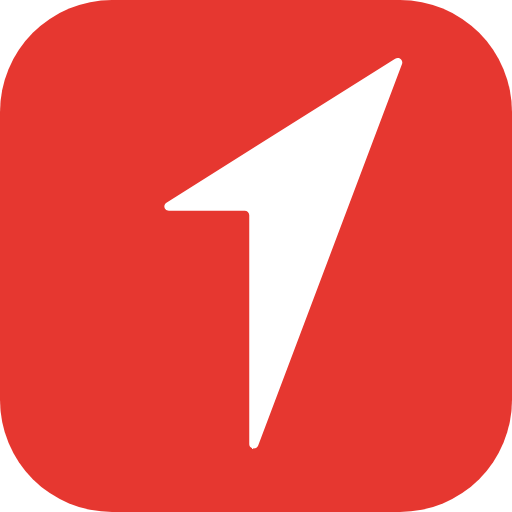
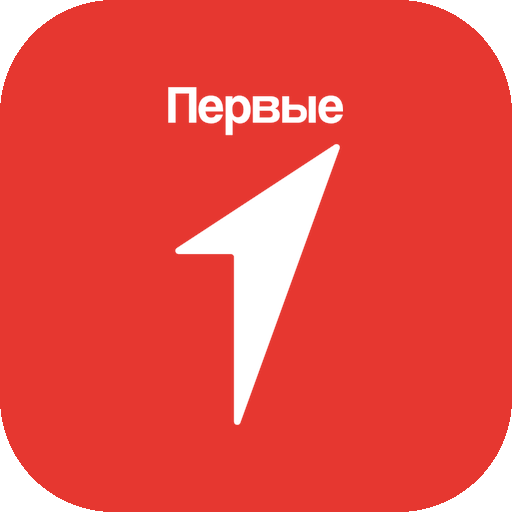
Новое имя «Советы Первых 19» и официальный логотип Движения Первых

Changed region(s): [[0.3125, 0.0938, 0.7812, 0.875]]

diff --git a/public/style.css b/public/style.css
@@ -5,7 +5,7 @@
 @media(max-width:700px){.sidebar{position:relative;width:100%;padding:16px 16px 8px;border-right:0;border-bottom:1px solid #e3e7ec}.brand{margin:0 0 17px;font-size:18px;gap:9px;line-height:1.1}.brand>span:last-child br{display:none}.brand-mark{width:32px;height:34px;font-size:25px;border-radius:9px}.brand-region{display:inline;font-size:8px;margin-left:10px}.nav-label,.sidebar-bottom,.nav-divider{display:none}.sidebar nav{display:flex;gap:4px;overflow:auto}.nav-item{width:auto;white-space:nowrap;flex-shrink:0;font-size:10px;padding:8px 10px;margin:0;gap:6px}.nav-item small{display:none}.nav-item .icon{width:14px;height:14px}.workspace{margin:0}.topbar{height:61px;padding:0 19px;font-size:10px}.topbar .button{padding:8px 12px;font-size:10px}main{padding:26px 19px 32px}h1{font-size:25px}.page-heading p{font-size:11px;line-height:1.7}.page-heading{align-items:flex-start;flex-direction:column}.hero h2{font-size:27px}.hero-copy{padding:25px 24px}.hero p{font-size:11px}.hero-art{right:-75px;width:60%}.cards{grid-template-columns:1fr}.record-card{padding:20px 21px 0}.card-bottom{margin:0 -21px;padding:13px 19px}.record-card h3{font-size:17px}.card-description{font-size:12px;min-height:0}.card-council{font-size:10px}.kind{font-size:10px}.priority{font-size:8px}.badge,.deadline{font-size:9px}.filters{gap:8px}.filters select{flex:1;max-width:100%;min-width:0;font-size:9px}.search{flex-basis:100%;min-width:100%}.section-title p{font-size:10px;max-width:260px}.section-title h2{font-size:17px}.stats{margin-bottom:26px}.stat strong{font-size:26px}.stat>span:last-of-type{font-size:10px}.rows .record-card{grid-template-columns:1fr;gap:10px}.rows .card-bottom{justify-content:flex-start}.rows .card-top{display:none}.rows .record-card h3{font-size:14px}.council-grid,.help-grid{grid-template-columns:1fr}.calendar-grid{min-width:500px}.panel:has(.calendar-grid){overflow:auto}.calendar-day{min-height:95px}.calendar-event{font-size:9px}.calendar-day strong{font-size:10px}.panel{padding:20px}.form-row{grid-template-columns:1fr;gap:0}dialog{padding:28px 22px;max-height:92vh}dialog h2{font-size:23px}.detail-title{font-size:25px}.detail-meta{flex-direction:column;gap:8px}.event time{display:block;margin:2px 0}.help-card{padding:22px}.help-card h2{margin-top:9px}.help-card p{font-size:13px}.invite-code{font-size:17px;letter-spacing:1px}footer{font-size:9px;padding:18px 19px;flex-wrap:wrap;gap:7px}footer>span{display:none}footer small{font-size:8px}#toast{width:calc(100% - 32px);text-align:center}}
 @media(prefers-reduced-motion:reduce){*{transition:none!important;scroll-behavior:auto!important}}
 
-.brand-mark{padding:0;flex-shrink:0}.brand-mark img{display:block;width:25px;height:39px}.profile small{max-width:150px;overflow-wrap:anywhere}
+.brand-mark{padding:0;flex-shrink:0}.brand-mark img{display:block;height:39px;width:auto}.profile small{max-width:150px;overflow-wrap:anywhere}
 .cf-actions{display:flex;gap:8px;flex-wrap:wrap}.cf-filters{display:flex;gap:16px;flex-wrap:wrap;margin:0 0 24px}.cf-filters label{min-width:170px;max-width:400px}.cf-section{margin-bottom:24px}.cf-table-wrap{overflow-x:auto;width:100%;margin:16px 0}.cf-table{width:100%;border-collapse:collapse;text-align:left}.cf-table th,.cf-table td{padding:12px;border-bottom:1px solid #e8eaee;vertical-align:top}.cf-table th{font-size:12px;color:#737984;background:#f8f9fb}.cf-table td{font-size:13px}.cf-months{min-width:620px}.cf-months input{width:100%;min-width:88px;padding:8px}.cf-months th{max-width:160px}.cf-totals{display:grid;grid-template-columns:repeat(4,1fr);gap:20px}.cf-totals strong{display:block;font-size:28px}.cf-totals span{font-size:12px;color:#737984}.cf-request{display:flex;justify-content:space-between;gap:16px;flex-wrap:wrap;padding:18px 0;border-bottom:1px solid #e8eaee}.cf-request span,.cf-request small{display:block;color:#737984;margin-top:5px}.cf-request small{max-width:800px}dialog:has(#cf-report-form){max-width:960px;width:calc(100% - 32px)}.sidebar{overflow-y:auto}.sidebar nav{flex-shrink:0}@media(max-width:800px){.cf-totals{grid-template-columns:repeat(2,1fr)}.cf-filters{display:block}.cf-filters label{max-width:none}.cf-table td,.cf-table th{padding:8px}.page-heading{flex-wrap:wrap}}
 .cf-role-picker{border:1px solid #e3e6eb;border-radius:10px;padding:14px 16px;margin:18px 0;min-width:0}.cf-role-picker legend{font-weight:650;padding:0 5px}.cf-role-picker label,.cf-check{display:flex;align-items:flex-start;gap:10px;font-size:13px;line-height:1.5;margin:12px 0}.cf-role-picker input[type=checkbox],.cf-check input[type=checkbox]{width:18px;height:18px;padding:0;margin:1px 0 0;flex-shrink:0;accent-color:#e63730}.cf-activity{border:1px solid #e2e6ec;border-radius:12px;background:#fafbfc;padding:20px;margin:22px 0;min-width:0}.cf-activity legend{font-size:14px;font-weight:700;padding:0 8px}.cf-event-grid{display:grid;grid-template-columns:1fr 1fr;gap:16px}.cf-event-toolbar{justify-content:space-between;align-items:center;margin-bottom:16px}.cf-activity input,.cf-activity select,.cf-activity textarea{background:white}.cf-legacy{border:1px solid #e6cf92;background:#fffbef;border-radius:10px;padding:16px;margin-bottom:24px}.cf-subheading{margin-top:28px}.cf-role-picker label{font-weight:400}.cf-months td{font-variant-numeric:tabular-nums}@media(max-width:700px){.cf-event-grid{grid-template-columns:1fr;gap:0}.cf-activity{padding:14px}}
 .pf-people-grid,.pf-council-grid{display:grid;grid-template-columns:repeat(auto-fill,minmax(225px,1fr));gap:18px}.pf-person-card,.pf-council-card{border:1px solid #e5e8ed;border-radius:12px;background:#fff;padding:22px;text-align:left;color:#24282e;overflow-wrap:anywhere}.pf-person-card:hover,.pf-council-card:hover{border-color:#e63730;box-shadow:0 4px 18px #292b3710}.pf-person-card strong,.pf-council-card strong{display:block;font-size:15px;margin:10px 0 7px}.pf-person-card span,.pf-council-card span{display:block;color:#777e89;font-size:12px}.pf-photo{width:90px;height:105px;object-fit:cover;border-radius:12px;flex-shrink:0;background:#f2eae4}.pf-initials{display:grid;place-items:center;font-size:35px;font-weight:700;color:#9b6d50}.pf-profile-head{display:flex;gap:22px;align-items:flex-start;margin-bottom:22px}.pf-profile-head h2{margin-bottom:8px}.pf-info{display:grid;grid-template-columns:140px 1fr;gap:8px 16px;margin:24px 0}.pf-info dt{color:#8b919b}.pf-info dd{margin:0;overflow-wrap:anywhere}.pf-info a{color:#d93630;text-decoration:underline}.pf-bio{white-space:pre-wrap;overflow-wrap:anywhere}.pf-metrics{margin:20px 0;grid-template-columns:repeat(3,1fr)}.pf-record{display:flex;flex-direction:column;gap:5px;border-bottom:1px solid #e7e9ee;padding:12px 0}.pf-record span{font-size:12px;color:#868d97}.pf-chart{margin:25px 0;padding:18px;background:#f7f9fb;border-radius:12px;overflow:auto}.pf-chart figcaption{font-size:15px;font-weight:700;margin-bottom:14px}.pf-chart svg{width:100%;min-width:520px;display:block}.pf-chart text{fill:#68717f}.pf-series-0{fill:#e63730}.pf-series-1{fill:#4777b4}.pf-series-2{fill:#399b7b}.pf-chart-key{display:flex;gap:15px;font-size:11px;flex-wrap:wrap}.pf-attendance-row{display:grid;grid-template-columns:1fr 170px;gap:15px;align-items:center;padding:8px 0;border-bottom:1px solid #eceef2}.pf-attendance-row small{display:block;color:#9096a0;font-weight:400}.record-card.task{border-top:3px solid #4777b4}.cf-totals{grid-template-columns:repeat(auto-fit,minmax(160px,1fr))}dialog:has(.pf-profile-head),dialog:has(#pf-meeting-form){max-width:960px;width:calc(100% - 32px)}.cf-months{min-width:830px}@media(max-width:700px){.pf-metrics{grid-template-columns:repeat(2,1fr)}.pf-info{grid-template-columns:1fr;gap:3px}.pf-info dd{margin-bottom:10px}.pf-profile-head{gap:14px}.pf-attendance-row{grid-template-columns:1fr}.pf-photo{width:70px;height:85px}.pf-profile-head h2{font-size:22px}.cf-totals{grid-template-columns:repeat(2,1fr)}}

diff --git a/public/app.js b/public/app.js
@@ -37,7 +37,7 @@ async function load(){if(state.demo){state.items=demoItems;state.councils=[...ne
 function nav(id,text,ico,count){return `<button class="nav-item ${state.page===id?'active':''}" data-page="${id}">${icon(ico)}<span>${text}</span>${count!==undefined?`<small>${count}</small>`:''}</button>`;}
 function render(){
  const items=state.items.filter(i=>i.status!=='archive');const counts=k=>items.filter(i=>i.kind===k).length;
- $('#app').innerHTML=`<aside class="sidebar"><a class="brand" href="/" aria-label="Живые Советы, главная"><span class="brand-mark"><img src="/first-mark.svg" alt="Движение Первых"></span><span>Живые<br>Советы<span class="brand-region">ХАКАСИЯ</span></span></a><div class="nav-label">РАБОЧЕЕ ПРОСТРАНСТВО</div><nav>${nav('overview','Обзор','grid')}${nav('task','План работы','check',counts('task'))}${nav('initiative','Инициативы','bulb',counts('initiative'))}${nav('project','Проекты','flag',counts('project'))}${nav('problem','Проблемы','alert',counts('problem'))}<div class="nav-divider"></div>${nav('calendar','Сроки и календарь','calendar')}${nav('councils','Советы Хакасии','users')}${nav('roster','Составы Советов','users')}${nav('reports','Отчётность','list')}${nav('meetings','Заседания и ВКС','calendar')}${nav('performance','Эффективность участников','users')}${nav('efficiency','Общая эффективность','grid')}${nav('materials','Методические материалы','list')}${nav('permissions','Права доступа','help')}${canManage()||can('invite_members')?nav('team','Участники и доступ','users'):''}</nav><div class="sidebar-bottom">${typeof pwaSidebar==='function'?pwaSidebar():''}<div class="sidebar-note"><span class="tiny-dot"></span>От идеи — к общему делу<p>Пространство для тех,<br>кто создаёт перемены.</p></div>${nav('help','Как это работает','help')}<div class="profile"><div class="avatar">${state.user?esc(state.user.name.slice(0,1)):'С'}</div><div><strong>${esc(state.user?.name||'Знакомимся с площадкой')}</strong><small>${displayRoles(state.user)||'Ознакомительный режим'}</small></div>${state.user?`<button class="icon-button" data-action="logout" aria-label="Выйти">${icon('logout')}</button>`:''}</div></div></aside><div class="workspace"><header class="topbar"><span><span class="region-dot"></span>Республика Хакасия <span class="slash">/</span> <span class="topbar-muted">Советы Первых</span></span><div class="topbar-right">${typeof pwaTopbar==='function'?pwaTopbar():''}${state.demo?'<span class="preview-label">Примеры данных</span>':`<span class="connection"><i></i>${state.hosted?'Общее пространство':'Локальное пространство'}</span>`}${state.user?`<button class="icon-button" data-action="logout" aria-label="Выйти из аккаунта" title="Выйти из аккаунта">${icon('logout')}</button>`:''}${btn(state.user?'Новая запись':'Войти',state.user?'create':'auth',state.user?'primary':'','plus')}${!state.user&&!state.setupRequired?btn('Регистрация','auth-register','primary'):''}</div></header><main id="main">${typeof claimBanner==='function'?claimBanner():''}${pageContent()}</main><footer>Живые Советы <span>Идеи становятся делами, когда мы вместе.</span><small>Хакасия · ${state.demo?'Ознакомительная версия':'Общая работа Советов'} · © 2026 Роман Мухменов. Все права защищены.</small></footer></div>`;
+ $('#app').innerHTML=`<aside class="sidebar"><a class="brand" href="/" aria-label="Советы Первых 19, главная"><span class="brand-mark"><img src="/first-logo-white.png" alt="Движение Первых"></span><span>Советы<br>Первых<span class="brand-region">19 · ХАКАСИЯ</span></span></a><div class="nav-label">РАБОЧЕЕ ПРОСТРАНСТВО</div><nav>${nav('overview','Обзор','grid')}${nav('task','План работы','check',counts('task'))}${nav('initiative','Инициативы','bulb',counts('initiative'))}${nav('project','Проекты','flag',counts('project'))}${nav('problem','Проблемы','alert',counts('problem'))}<div class="nav-divider"></div>${nav('calendar','Сроки и календарь','calendar')}${nav('councils','Советы Хакасии','users')}${nav('roster','Составы Советов','users')}${nav('reports','Отчётность','list')}${nav('meetings','Заседания и ВКС','calendar')}${nav('performance','Эффективность участников','users')}${nav('efficiency','Общая эффективность','grid')}${nav('materials','Методические материалы','list')}${nav('permissions','Права доступа','help')}${canManage()||can('invite_members')?nav('team','Участники и доступ','users'):''}</nav><div class="sidebar-bottom">${typeof pwaSidebar==='function'?pwaSidebar():''}<div class="sidebar-note"><span class="tiny-dot"></span>От идеи — к общему делу<p>Пространство для тех,<br>кто создаёт перемены.</p></div>${nav('help','Как это работает','help')}<div class="profile"><div class="avatar">${state.user?esc(state.user.name.slice(0,1)):'С'}</div><div><strong>${esc(state.user?.name||'Знакомимся с площадкой')}</strong><small>${displayRoles(state.user)||'Ознакомительный режим'}</small></div>${state.user?`<button class="icon-button" data-action="logout" aria-label="Выйти">${icon('logout')}</button>`:''}</div></div></aside><div class="workspace"><header class="topbar"><span><span class="region-dot"></span>Республика Хакасия <span class="slash">/</span> <span class="topbar-muted">Советы Первых 19</span></span><div class="topbar-right">${typeof pwaTopbar==='function'?pwaTopbar():''}${state.demo?'<span class="preview-label">Примеры данных</span>':`<span class="connection"><i></i>${state.hosted?'Общее пространство':'Локальное пространство'}</span>`}${state.user?`<button class="icon-button" data-action="logout" aria-label="Выйти из аккаунта" title="Выйти из аккаунта">${icon('logout')}</button>`:''}${btn(state.user?'Новая запись':'Войти',state.user?'create':'auth',state.user?'primary':'','plus')}${!state.user&&!state.setupRequired?btn('Регистрация','auth-register','primary'):''}</div></header><main id="main">${typeof claimBanner==='function'?claimBanner():''}${pageContent()}</main><footer>Советы Первых 19 <span>Идеи становятся делами, когда мы вместе.</span><small>Хакасия · ${state.demo?'Ознакомительная версия':'Общая работа Советов'} · © 2026 Роман Мухменов. Все права защищены.</small></footer></div>`;
  if(state.page==='team')loadMembers();
  if(state.page==='councils'&&!state.demo)refreshCouncilIndex();
  if(['roster','reports'].includes(state.page))loadCouncilFeatures();

diff --git a/public/index.html b/public/index.html
@@ -1,1 +1,1 @@
-<!doctype html><html lang="ru"><head><meta charset="utf-8"><meta name="viewport" content="width=device-width,initial-scale=1"><title>Живые Советы · Хакасия</title><meta name="description" content="Общее пространство Советов Первых Хакасии: от идеи к совместному делу."><link rel="icon" href="/favicon.svg"><link rel="manifest" href="/manifest.webmanifest"><meta name="theme-color" content="#e63730"><link rel="apple-touch-icon" href="/apple-touch-icon.png"><meta name="apple-mobile-web-app-capable" content="yes"><meta name="mobile-web-app-capable" content="yes"><meta name="apple-mobile-web-app-title" content="Живые Советы"><meta name="apple-mobile-web-app-status-bar-style" content="default"><link rel="stylesheet" href="/style.css"><script src="/app.js" defer></script><script src="/council-features.js" defer></script><script src="/exceljs.min.js" defer></script><script src="/exports.js" defer></script><script src="/people.js" defer></script><script src="/plan.js" defer></script><script src="/efficiency.js" defer></script><script src="/materials.js" defer></script><script src="/pwa.js" defer></script><script src="/sovetnik.js" defer></script><script src="/person-picker.js" defer></script><script src="/council-picker.js" defer></script><script src="/registration.js" defer></script></head><body><div id="app"><div class="loading">Живые Советы<span>Загружаем пространство…</span></div></div><div id="toast" role="status" aria-live="polite"></div><dialog id="modal"></dialog></body></html>
+<!doctype html><html lang="ru"><head><meta charset="utf-8"><meta name="viewport" content="width=device-width,initial-scale=1"><title>Советы Первых 19 · Хакасия</title><meta name="description" content="Советы Первых 19 — общее пространство Советов Первых Хакасии: от идеи к совместному делу."><link rel="icon" href="/favicon.png"><link rel="manifest" href="/manifest.webmanifest"><meta name="theme-color" content="#e63730"><link rel="apple-touch-icon" href="/apple-touch-icon.png"><meta name="apple-mobile-web-app-capable" content="yes"><meta name="mobile-web-app-capable" content="yes"><meta name="apple-mobile-web-app-title" content="Советы Первых 19"><meta name="apple-mobile-web-app-status-bar-style" content="default"><link rel="stylesheet" href="/style.css"><script src="/app.js" defer></script><script src="/council-features.js" defer></script><script src="/exceljs.min.js" defer></script><script src="/exports.js" defer></script><script src="/people.js" defer></script><script src="/plan.js" defer></script><script src="/efficiency.js" defer></script><script src="/materials.js" defer></script><script src="/pwa.js" defer></script><script src="/sovetnik.js" defer></script><script src="/person-picker.js" defer></script><script src="/council-picker.js" defer></script><script src="/registration.js" defer></script></head><body><div id="app"><div class="loading">Советы Первых 19<span>Загружаем пространство…</span></div></div><div id="toast" role="status" aria-live="polite"></div><dialog id="modal"></dialog></body></html>

diff --git a/public/sw.js b/public/sw.js
@@ -1,6 +1,6 @@
-// Service Worker «Живых Советов»: установка как приложения, просмотр без интернета, push-уведомления.
-const SHELL='sovety-shell-v1',API='sovety-api';
-const shell=['/','/style.css','/app.js','/council-features.js','/exceljs.min.js','/exports.js','/people.js','/person-picker.js','/registration.js','/plan.js','/efficiency.js','/materials.js','/council-picker.js','/pwa.js','/first-mark.svg','/favicon.svg','/icon-192.png','/manifest.webmanifest'];
+// Service Worker платформы «Советы Первых 19»: установка как приложения, просмотр без интернета, push-уведомления.
+const SHELL='sovety-shell-v2',API='sovety-api';
+const shell=['/','/style.css','/app.js','/council-features.js','/exceljs.min.js','/exports.js','/people.js','/person-picker.js','/registration.js','/plan.js','/efficiency.js','/materials.js','/council-picker.js','/pwa.js','/first-logo-white.png','/favicon.png','/icon-192.png','/manifest.webmanifest'];
 // Только эти ответы сервера сохраняются для просмотра без связи. Файлы материалов и фото не кешируются.
 const cachedApi=['/api/bootstrap','/api/items','/api/people-data','/api/personal','/api/council-data','/api/materials','/api/identity-status','/api/notifications'];
 self.addEventListener('install',e=>{e.waitUntil(caches.open(SHELL).then(c=>c.addAll(shell)).then(()=>self.skipWaiting()));});
@@ -17,7 +17,7 @@ self.addEventListener('fetch',e=>{
 });
 self.addEventListener('push',e=>{e.waitUntil((async()=>{
  let list=[];try{const sub=await self.registration.pushManager.getSubscription();const r=await fetch('/api/notifications/pending',{method:'POST',headers:{'Content-Type':'application/json'},body:JSON.stringify({endpoint:sub?.endpoint||''})});if(r.ok)list=(await r.json()).notifications;}catch{}
- if(!list.length)list=[{id:'sovety',title:'Живые Советы',body:'Есть новые уведомления.',url:'/'}];
+ if(!list.length)list=[{id:'sovety',title:'Советы Первых 19',body:'Есть новые уведомления.',url:'/'}];
  await Promise.all(list.slice(0,5).map(n=>self.registration.showNotification(n.title,{body:n.body,icon:'/icon-192.png',badge:'/icon-192.png',tag:n.id,lang:'ru',data:{url:n.url||'/'}})));
 })());});
 self.addEventListener('notificationclick',e=>{e.notification.close();const url=new URL(e.notification.data?.url||'/',self.location.origin).href;e.waitUntil((async()=>{

diff --git a/public/exports.js b/public/exports.js
@@ -1,5 +1,5 @@
 function cfSelectedReports(){return councilData.reports.filter(r=>(!cfFilter.council||r.council===cfFilter.council)&&(!cfFilter.year||String(r.year)===cfFilter.year)&&(!cfFilter.status||r.status===cfFilter.status));}
-function cfWorkbook(){if(typeof ExcelJS==='undefined')throw new Error('Библиотека Excel ещё загружается. Повторите выгрузку.');const w=new ExcelJS.Workbook();w.creator='Живые Советы';w.created=new Date();w.modified=new Date();return w;}
+function cfWorkbook(){if(typeof ExcelJS==='undefined')throw new Error('Библиотека Excel ещё загружается. Повторите выгрузку.');const w=new ExcelJS.Workbook();w.creator='Советы Первых 19';w.created=new Date();w.modified=new Date();return w;}
 function cfSheet(w,name,title,description,headers,widths,rows){
  const s=w.addWorksheet(name,{views:[{state:'frozen',ySplit:4}]});s.properties.defaultRowHeight=22;s.columns=widths.map(width=>({width}));
  s.mergeCells(1,1,1,headers.length);s.getCell(1,1).value=title;s.getCell(1,1).font={name:'Calibri',size:18,bold:true,color:{argb:'FFE63730'}};s.getRow(1).height=32;

diff --git a/README.md b/README.md
@@ -1,4 +1,4 @@
-# Живые Советы · Хакасия
+# Советы Первых 19 · Хакасия
 
 Локальная рабочая площадка для инициатив, проектов и проблем Советов Первых. Исходники, сервер и база данных находятся в этой папке. Приложение работает без интернета и не использует сторонние сервисы.
 
